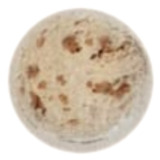
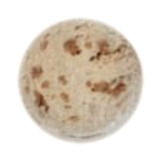
Fotos de los sabores de Marruecos con fondo blanco, como el resto (front 1.110.3)
Claude-Session: https://claude.ai/code/session_01PisFh7KHNAEcfNL7L9FfXQ

diff --git a/index.html b/index.html
@@ -767,7 +767,7 @@ const API_URL = "https://script.google.com/macros/s/AKfycbw6xlN3nrDdJ4w-kVoNunOK
 // independiente de BACKEND_VERSION (que solo se mueve con cambios en Code.gs).
 // Sirve para confirmar a simple vista, mirando el header, que el dispositivo
 // ya cargó la última versión pusheada (útil por el caché del navegador/GitHub Pages).
-const FRONTEND_VERSION = "1.110.2";
+const FRONTEND_VERSION = "1.110.3";
 const GRUPOS_PAD=["icepops","chocolateria"]; // Salida/Desperdicio con pad de cantidad; va arriba porque el primer render de una sesión abierta ya lo usa
 
 const POLL_MS = 30000;

diff --git a/sw.js b/sw.js
@@ -9,7 +9,7 @@
 // Subir una versión nueva: cambiar CACHE_VERSION junto con FRONTEND_VERSION
 // en index.html (no hace falta que sea el mismo número, alcanza con que
 // cambie) — así el navegador descarta la caché vieja sola.
-const CACHE_VERSION = "logistock-shell-v1.110.2";
+const CACHE_VERSION = "logistock-shell-v1.110.3";
 const SHELL_KEY = "./";
 const PRECACHE = [
   "./",

diff --git a/CLAUDE.md b/CLAUDE.md
@@ -115,7 +115,7 @@ Pedido de Gabi: algunos locales no tienen ciertos productos (ej. Baldes) y hací
 - **Pantalla del código más clara + pedido bloqueado legible en dorado** 27/10/2026, pedido de Gabi (a una franquiciada nadie le explica que existe «no tengo código»): en la pantalla del código del login, arriba del teclado, hay un bloque «¿No tenés el código?» con el botón visible **«Pedir que me aprueben»** (antes un link gris abajo de todo, fuera de la vista); se achicó el logo y el teclado y se ocultó el «Volver» de arriba (queda el del teclado) para que todo entre sin scrollear en 390×844. En Equipo › Equipos, el pedido bloqueado en tema dorado se leía con texto claro sobre tarjeta clara (`.eqCard.pend` entra ahora al «white-scope» del tema dorado). `FRONTEND_VERSION` 1.105.0, sin cambios en `Code.gs`.
 - **Catálogo por país (solo admin, Operaciones)** 28/10/2026, pedido de Gabi. Un solo catálogo global: los sabores son los mismos. Cada local tiene un país (`Locales.pais`, vacío = Argentina) y cada sabor es «Todos los países (menos algunos)» o «Solo en estos países» (`Sabores.paises` / `Sabores.paises_excluidos`, ids separados por coma; vacías = todos; `(ninguno)` = nadie lo ve). Un país nuevo arranca con todo el catálogo y el admin quita lo que no corresponde y suma sabores propios; lo existente queda en «Todos», así que al activarlo no cambia nada. En Operaciones › Sabores (solo admin): pills de países con conteo, texto por sabor («Todos menos X» / «Solo en…»), selector de países en alta y edición, y modo «Elegir varios» con barra Agregar a / Quitar de (acción `saborPaisMasivo`, el campo se llama `modo` porque `accion` lo pisa el despachador). Los locales ven solo su país (`datos()` devuelve `pais` y `fueraDePais`; `saboresDelLocalBase()` los saca de Salida/Ingreso/Stock/Conteo/Pedido) y siguen prendiendo/apagando como hoy; Historial y Relevar no cambian (Relevar oculta lo fuera de país). El servidor rechaza movimientos de sabores fuera del país y el Conteo los deja en 0. Sabores sin foto muestran iniciales (cuando haya foto: 160×160 en `fotos/<id>.jpg`). `BACKEND_VERSION` 1.53.0, `FRONTEND_VERSION` 1.107.4 (**nota «Cómo usar esta pantalla» arriba de todo en Sabores y confirmación al tocar «Desactivar»**, porque «Desactivar» apaga el sabor en todos los países y ya pasó que lo usaron para sacarlo de un solo país; **Sabores en Operaciones abría lento:** esperaba los datos de un local que ahí no existe (`renderMain()` mostraba «Cargando datos de …»); ahora entra directo y además guarda la última lista en el equipo (`saboresAdminCache`) y la refresca de fondo; **«Elegir varios» también sirve para el mínimo:** la barra de selección tiene un campo «Mínimo» + «Poner mínimo» (usa `minimoMasivo`, sin redeploy), «Marcar los N» y «Ninguno»; funciona aunque no haya países; repinta cuando llega la lista de locales con el país; el alta de sabor nuevo está arriba de todo en Operaciones › Sabores y, si hay un país elegido en las pills, ya viene marcado «Solo en ese país»). **Ya cargado en la planilla (sin redeploy):** columnas `Locales.pais` (col. O), `Sabores.paises` (M) y `Sabores.paises_excluidos` (N). **Pendiente de Gabi:** repegar `Code.gs` 1.53.0 y «Nueva implementación» (hasta entonces el front nuevo convive: `fueraDePais` viene vacío y la barra de países avisa que falta el redeploy). Probado con Playwright en el mock (`pais-test.js`).
 - **Salida y Desperdicio con pad numérico (Icepops y chocolatería)** 30/10/2026, mock aprobado por Gabi (artifact `5nHa3oNXSEa5TUwAc3gF3x`; pidió que todo lo que sea salida use el mismo esquema, porque más adelante los kilos también van por pad). Tocar un Icepop o un producto de chocolatería en Salida o Desperdicio abre «¿Cuántas unidades?» (`abrirCantidad()`, `#cantOv`): arranca con 1 (o con lo ya cargado), el primer número que se toca reemplaza al que venía, «+1 caja · N» suma la `cantidad_maestra` (solo si entra en el stock), Enter/teclado físico/Escape, «Quitar de la salida» si ya estaba cargado, y avisa «Solo hay N» (Listo apagado) si se pasa del stock (`vendibleDe()` en Salida, stock en Desperdicio). El número es el total de ese producto, no se suma a lo anterior. **Vasquetas, baldes y gluten free siguen sumando de a 1 al tocar** (salidas chicas); en locales piloto del peso siguen con «¿Cuánto pesa?». Reemplaza al «mantené apretado» de alfajores y conitos (se borró el diálogo, el cartel y su CSS). La «Salida de chocolatería» de los locales con `venta_dia` no cambia (tiene sus propios campos). `FRONTEND_VERSION` 1.109.0, sin cambios en `Code.gs`. Probado con Playwright contra el simulador (`salida-pad.js`).
-- **Catálogo de Marruecos = su carta, 100%** 30/10/2026, pedido de Gabi (mandó 2 fotos de la carta «À vous de choisir votre gelato»: 24 vasquetas y 20 Icepops en 3 categorías: Classiques, Enrobés y Prestige). **Ya cargado en la planilla (sin redeploy):** `Sabores.paises_excluidos` = «Marruecos» en los 79 sabores de vasquetas, baldes, Icepops y gluten free que no figuran en la carta (chocolatería no se tocó: la carta no la incluye, queda pendiente de confirmar); apagados (`activo=NO`) los propios de Marruecos que no están en la carta: 165 King Bueno, 170 Sorbete supremo 80% y 171 Mango (la carta trae «Mangue Alphonso» = id 28, al que se le cargó `peso_paises` Marruecos 3,75). Equivalencias por diseño: vasquetas 4, 14, 40, 159, 9, 38, 13, 5, 20, 25, 167, 158, 17, 7, 28, 6, 42, 30, 168 (Citron vert), 24, 33, 169 (Fruit de la passion), 34, 166; Icepops Classiques 49, 51, 162, 163, 70, 73, 164; Enrobés 87, 82, 161, 85, 77, 75 (Crème croquant), 76; Prestige 54, 55, 57, 59, 105, 116. Fotos recortadas de la carta subidas a `fotos/` (158, 159, 161-164, 166-169, 171). **Nombres y categorías por país** (Gabi: «yo le pondría los nombres a ellos»): columnas nuevas `Sabores.nombre_paises` (P) y `Sabores.categoria_paises` (Q), JSON como `peso_paises` (`{"Marruecos":"Fraise"}`); `datos()` devuelve `nombre` y `categoria` ya resueltos para el país del local (`_textoPorPais()`), así Salida, Stock, Historial y el pedido de Marruecos muestran los nombres de la carta y sus 3 categorías de Icepops (Classiques, Enrobés, Prestige) sin tocar Argentina; Operaciones y Relevar siguen con el nombre general. **Ya cargado en la planilla** para los 44 sabores de la carta. `BACKEND_VERSION` 1.55.0, `FRONTEND_VERSION` 1.110.0 (solo agrega las 3 categorías al orden). **Pendiente de Gabi:** repegar `Code.gs` 1.55.0 y «Nueva implementación» (sin eso Marruecos sigue viendo nuestros nombres y categorías). No hay pantalla para editar estas columnas: se cargan en la planilla.
+- **Catálogo de Marruecos = su carta, 100%** 30/10/2026, pedido de Gabi (mandó 2 fotos de la carta «À vous de choisir votre gelato»: 24 vasquetas y 20 Icepops en 3 categorías: Classiques, Enrobés y Prestige). **Ya cargado en la planilla (sin redeploy):** `Sabores.paises_excluidos` = «Marruecos» en los 79 sabores de vasquetas, baldes, Icepops y gluten free que no figuran en la carta (chocolatería no se tocó: la carta no la incluye, queda pendiente de confirmar); apagados (`activo=NO`) los propios de Marruecos que no están en la carta: 165 King Bueno, 170 Sorbete supremo 80% y 171 Mango (la carta trae «Mangue Alphonso» = id 28, al que se le cargó `peso_paises` Marruecos 3,75). Equivalencias por diseño: vasquetas 4, 14, 40, 159, 9, 38, 13, 5, 20, 25, 167, 158, 17, 7, 28, 6, 42, 30, 168 (Citron vert), 24, 33, 169 (Fruit de la passion), 34, 166; Icepops Classiques 49, 51, 162, 163, 70, 73, 164; Enrobés 87, 82, 161, 85, 77, 75 (Crème croquant), 76; Prestige 54, 55, 57, 59, 105, 116. Fotos recortadas de la carta subidas a `fotos/` (158, 159, 161-164, 166-169, 171), con el fondo de papel pasado a blanco como el resto de las fotos (31/10/2026: la primera versión se veía con el fondo beige de la hoja). **Nombres y categorías por país** (Gabi: «yo le pondría los nombres a ellos»): columnas nuevas `Sabores.nombre_paises` (P) y `Sabores.categoria_paises` (Q), JSON como `peso_paises` (`{"Marruecos":"Fraise"}`); `datos()` devuelve `nombre` y `categoria` ya resueltos para el país del local (`_textoPorPais()`), así Salida, Stock, Historial y el pedido de Marruecos muestran los nombres de la carta y sus 3 categorías de Icepops (Classiques, Enrobés, Prestige) sin tocar Argentina; Operaciones y Relevar siguen con el nombre general. **Ya cargado en la planilla** para los 44 sabores de la carta. `BACKEND_VERSION` 1.55.0, `FRONTEND_VERSION` 1.110.0 (solo agrega las 3 categorías al orden). **Pendiente de Gabi:** repegar `Code.gs` 1.55.0 y «Nueva implementación» (sin eso Marruecos sigue viendo nuestros nombres y categorías). No hay pantalla para editar estas columnas: se cargan en la planilla.
 - **Incidente 30/10/2026: «Desactivar» global apagó ~90 sabores en todos los locales.** Por la bitácora (`Auditoria`, `admin_sabor`), un admin usó «Desactivar» en Operaciones › Sabores sobre ~100 sabores (probablemente para sacarlos de Marruecos): Multifruta y casi todos los Icepops, vasquetas, baldes, gluten free, tabletas, latas y squares desaparecieron de todos los locales (Galerías Pacífico lo notó). Se reactivaron en la planilla (`Sabores.activo=SI` en 89 ids; siguen en NO solo 160, 165, 170 y 171, a propósito) y Marruecos los sigue sin ver por `paises_excluidos`. Para sacar un sabor de un solo país NO se usa «Desactivar»: se usa el selector de países. Pendiente: pensar si «Desactivar» debería pedir una confirmación más fuerte o limitarse al admin principal.
 - **Fix 1.110.1:** la app no abría en equipos con sesión iniciada porque `GRUPOS_PAD` (1.109) se declaraba más abajo de donde ya se usaba en el primer render (`ReferenceError`). Ahora está arriba del script. Lección: probar siempre también «login → recargar la página» (`reload.js`), no solo el flujo desde cero.
 - **Decisión 30/10/2026 (Gabi): Marruecos queda como está por ahora, con Ingreso (con remito) y Producción.** No se cambia nada para que el responsable de Marruecos pueda empezar a usar la app ya. Propuesta que queda pendiente, sin mock ni código: en locales que producen y no reciben remito de fábrica (Marruecos, a futuro Paraguay, o un segundo local de Marruecos abastecido por el primero), Ingreso abre directo en Producción, sin N° de remito, lector de remitos ni aviso de duplicado, y con un link «Otro ingreso (sin remito)» con motivo/origen; opción por país y por local; requiere mock y redeploy. Mientras tanto, lo que informe otro local se carga a mano en Ingreso con el origen en el campo de remito/motivo.
